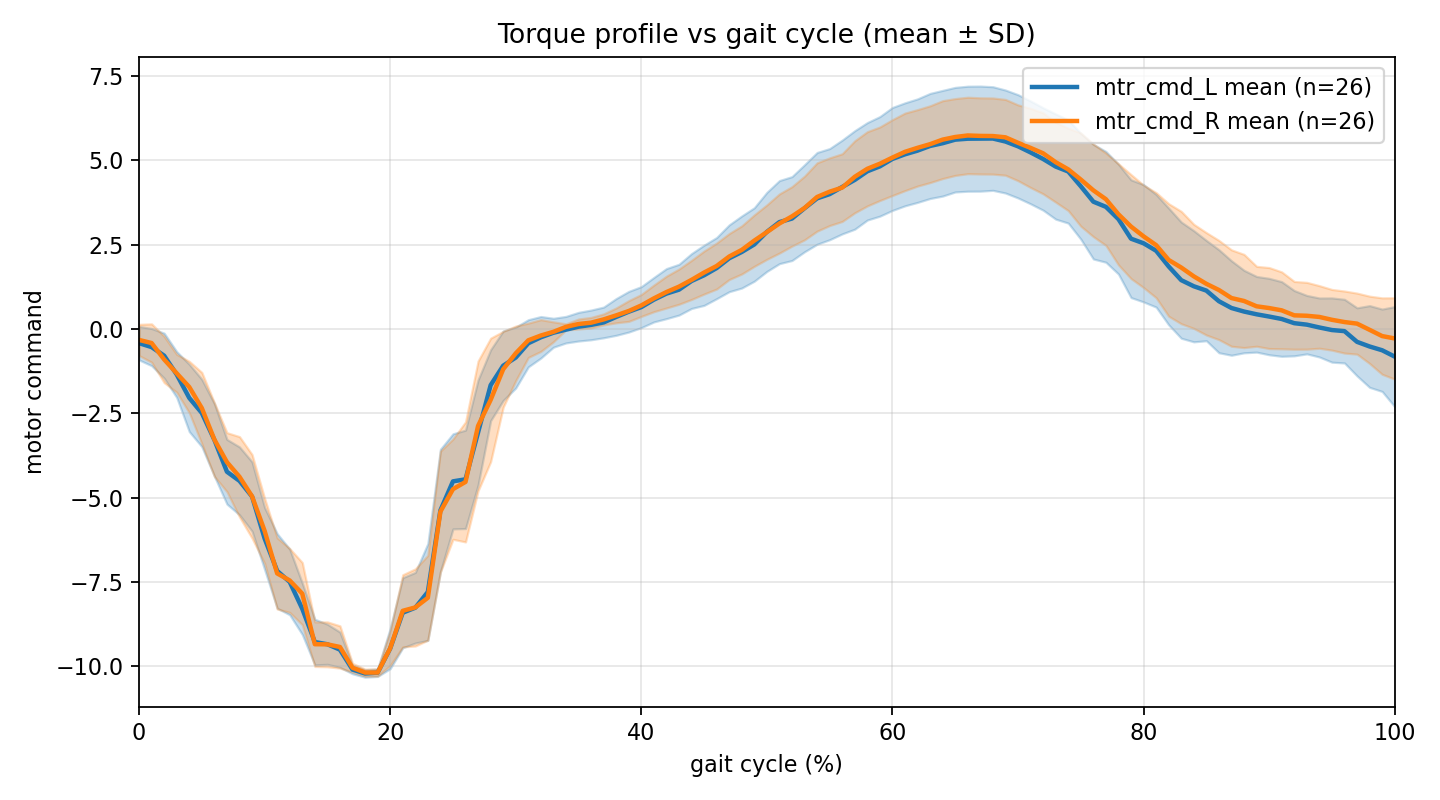
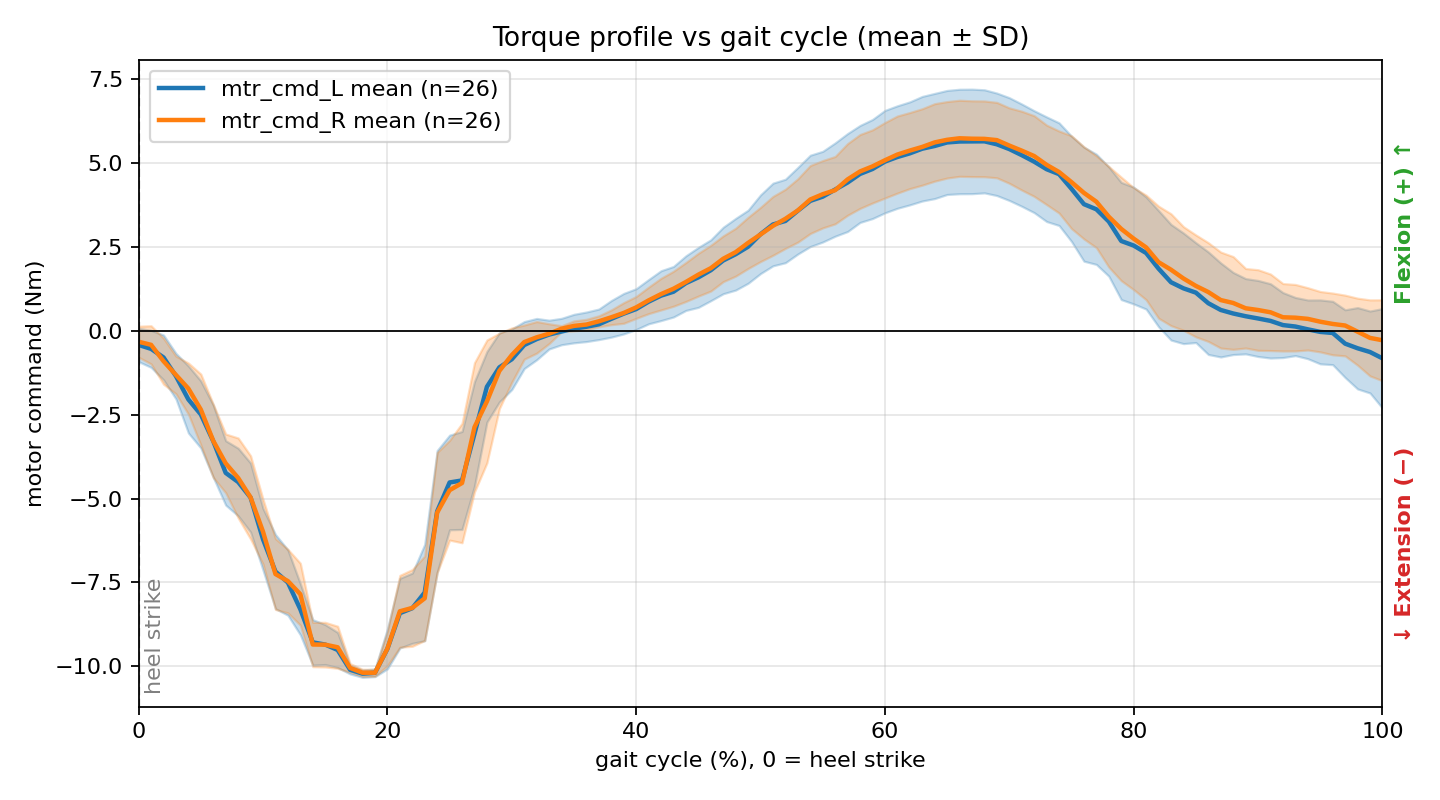
Cap gait percentage to 0-1 and label torque plots
- main.py: clip percent_gc to [0, 1] before the torque lookup so late heel
  strikes no longer wrap into the wrong phase; CSV and Teleplot (gc_*_raw)
  keep the raw value for diagnosis.
- torquePlot.py, t2_spline.py: mark heel strike at 0% and label the
  flexion (+) / extension (-) directions.

diff --git a/main.py b/main.py
@@ -239,8 +239,12 @@ def main():
                 # copL = mocap_trigger.send_copL
                 # Frz = mocap_trigger.send_Frz
                 # Flz = mocap_trigger.send_Flz
-                percent_gcR = mocap_trigger.send_percent_gcR
-                percent_gcL = mocap_trigger.send_percent_gcL
+                raw_gcR = mocap_trigger.send_percent_gcR
+                raw_gcL = mocap_trigger.send_percent_gcL
+                # Cap to one stride: values > 1 (missed/late heel strike) would
+                # otherwise wrap around and command torque from the wrong phase.
+                percent_gcR = float(np.clip(raw_gcR, 0.0, 1.0))
+                percent_gcL = float(np.clip(raw_gcL, 0.0, 1.0))
                 mocap_data_available = True
 
                 # time_needed = time_recv - time_sent
@@ -252,7 +256,7 @@ def main():
                 with open(mocap_log_csv, "a", newline="", encoding="utf-8") as f:
                     writer = csv.writer(f)
                     # writer.writerow([time_sent, time_recv, copR, copL, Frz, Flz])
-                    writer.writerow([time_sent, time_recv, percent_gcR, percent_gcL])
+                    writer.writerow([time_sent, time_recv, raw_gcR, raw_gcL])  # raw, uncapped
             else:
                 # Mocap client is running but no data yet - use defaults
                 trigger = None
@@ -297,8 +301,11 @@ def main():
         # 10. Stream live motor data to Teleplot
         teleplot.sendValue('pos_L', -current_pos_L)  # flexion positive on both sides
         teleplot.sendValue('pos_R', current_pos_R)
-        teleplot.sendValue('gc_L', percent_gcL)
+        teleplot.sendValue('gc_L', percent_gcL)  # capped 0-1 (what the controller uses)
         teleplot.sendValue('gc_R', percent_gcR)
+        if mocap_data_available:
+            teleplot.sendValue('gc_L_raw', raw_gcL)  # uncapped, to spot overshoot
+            teleplot.sendValue('gc_R_raw', raw_gcR)
         teleplot.sendValue('cmd_L', cmdL)
         teleplot.sendValue('cmd_R', cmdR)
 

diff --git a/torquePlot.py b/torquePlot.py
@@ -48,6 +48,18 @@ def reconstruct_gait(time, cmd):
 	return heel_strikes, gc, np.array(strides)
 
 
+def label_directions(ax) -> None:
+	"""Mark heel strike and the flexion (+) / extension (-) torque directions."""
+	ax.axhline(0, color="black", linewidth=0.8)
+	ax.axvline(0, color="gray", linestyle="--", linewidth=1)
+	ax.text(0.5, 0.02, "heel strike", transform=ax.get_xaxis_transform(),
+		rotation=90, va="bottom", ha="left", color="gray")
+	ax.text(1.01, 0.75, "Flexion (+) ↑", transform=ax.transAxes, rotation=90,
+		va="center", ha="left", color="tab:green", fontweight="bold")
+	ax.text(1.01, 0.25, "↓ Extension (−)", transform=ax.transAxes, rotation=90,
+		va="center", ha="left", color="tab:red", fontweight="bold")
+
+
 def main() -> None:
 	df = pd.read_csv(CSV_PATH).iloc[START_ROW:END_ROW]
 	time = df["time"].to_numpy()
@@ -81,12 +93,13 @@ def main() -> None:
 		mean, std = strides.mean(axis=0), strides.std(axis=0)
 		ax.plot(x, mean, color=color, linewidth=2, label=f"{col} mean (n={len(strides)})")
 		ax.fill_between(x, mean - std, mean + std, color=color, alpha=0.25)
-	ax.set_xlabel("gait cycle (%)")
-	ax.set_ylabel("motor command")
+	label_directions(ax)
+	ax.set_xlabel("gait cycle (%), 0 = heel strike")
+	ax.set_ylabel("motor command (Nm)")
 	ax.set_title("Torque profile vs gait cycle (mean ± SD)")
 	ax.set_xlim(0, 100)
 	ax.grid(True, alpha=0.3)
-	ax.legend()
+	ax.legend(loc="upper left")
 	fig2.tight_layout()
 
 	fig1.savefig(OUTPUT_PATH_OVERVIEW, dpi=160)

diff --git a/t2_spline.py b/t2_spline.py
@@ -87,7 +87,14 @@ def plot_default_spline(
     fig, ax = plt.subplots(figsize=(10, 4))
     ax.plot(percent_gc, torque_nm, color="tab:blue")
     ax.axhline(0, color="black", linewidth=0.8, linestyle="--")
-    ax.set_xlabel("Gait cycle (%)")
+    ax.axvline(0, color="gray", linestyle="--", linewidth=1)
+    ax.text(0.5, 0.02, "heel strike", transform=ax.get_xaxis_transform(),
+            rotation=90, va="bottom", ha="left", color="gray")
+    ax.text(1.01, 0.75, "Flexion (+) ↑", transform=ax.transAxes, rotation=90,
+            va="center", ha="left", color="tab:green", fontweight="bold")
+    ax.text(1.01, 0.25, "↓ Extension (−)", transform=ax.transAxes, rotation=90,
+            va="center", ha="left", color="tab:red", fontweight="bold")
+    ax.set_xlabel("Gait cycle (%), 0 = heel strike")
     ax.set_ylabel("Hip torque (Nm)")
     ax.set_title(
         f"TBE hip torque spline (scale={scale_factor:.2f}, delay={delay_percent_gc:.1f}%)"
